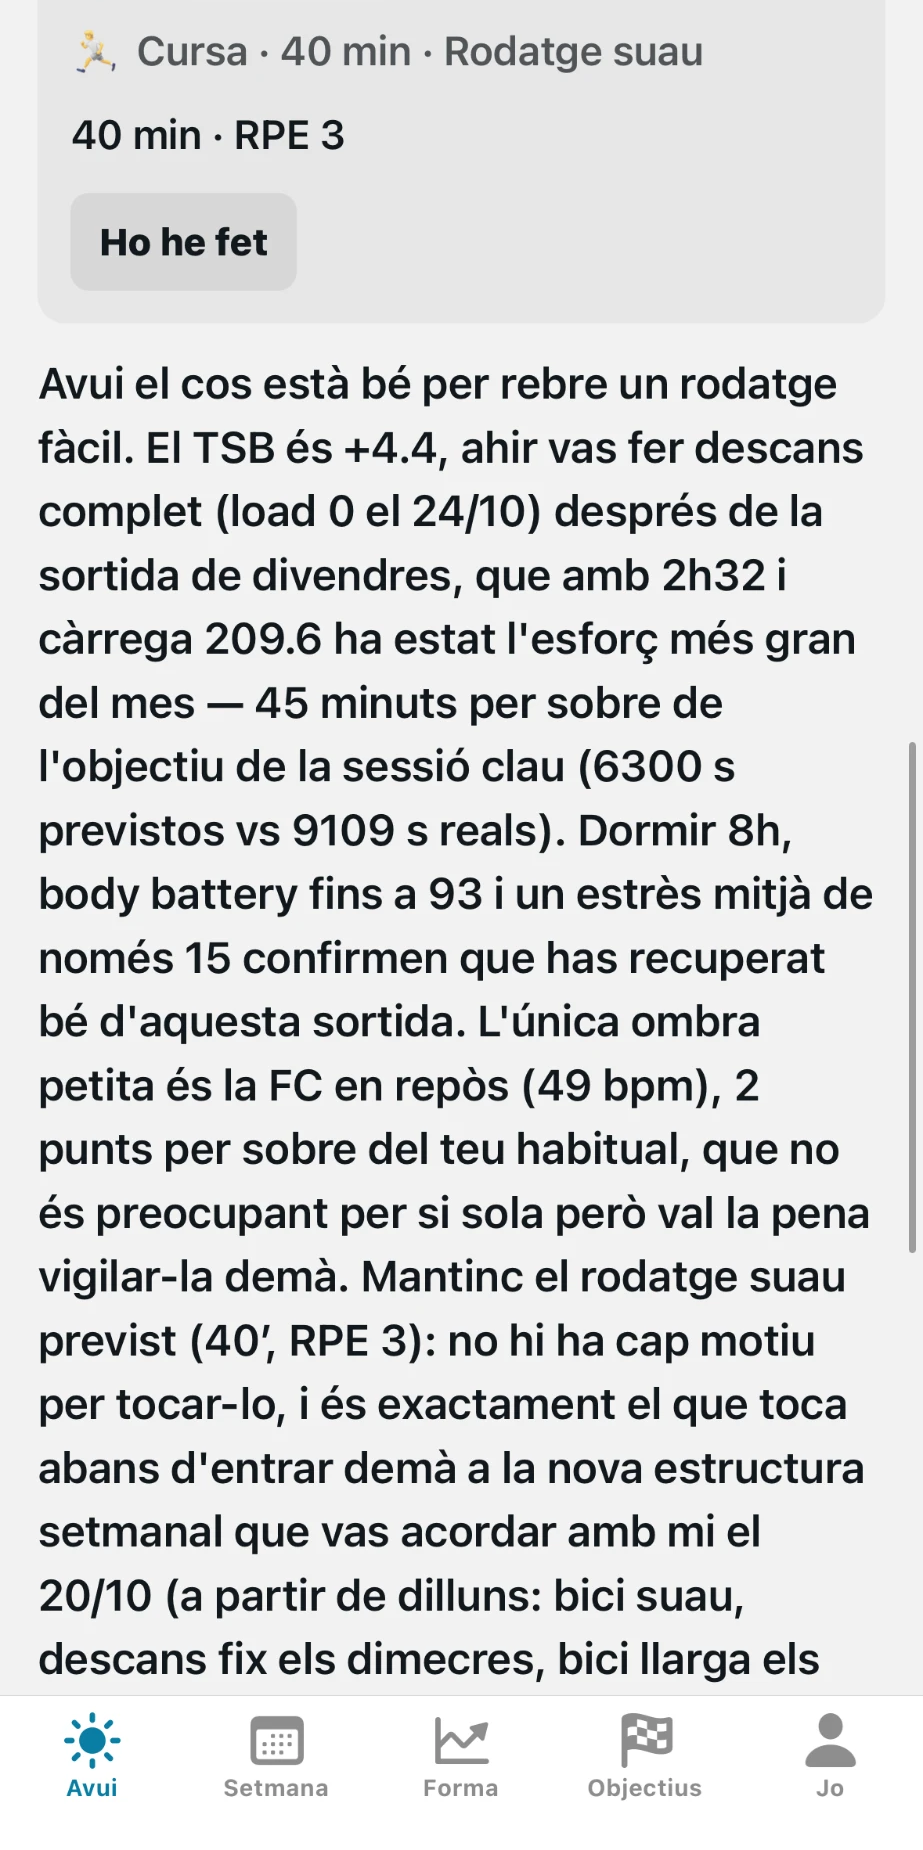
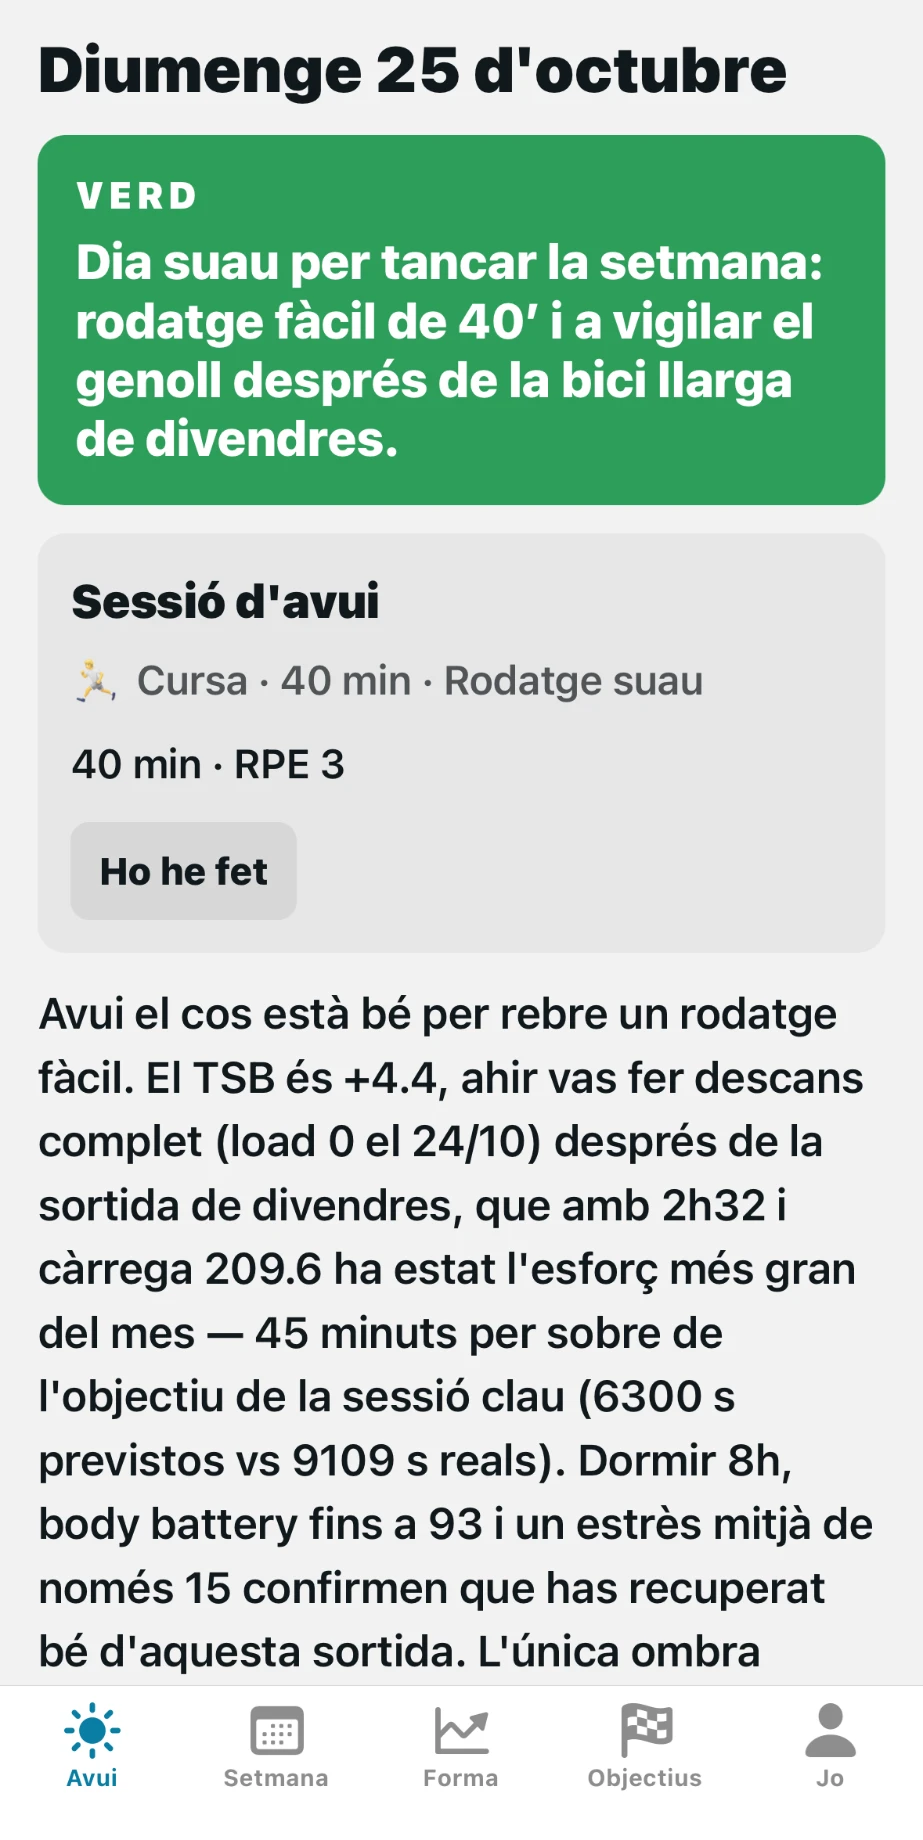
docs(readme): show the traffic light in the Today screenshot

diff --git a/README.md b/README.md
@@ -14,7 +14,7 @@ It got me to the finish line of my first triathlon (Artiem Half Menorca Short,
 27/09/2026). It now plans my season on a rolling basis.
 
 <p align="center">
-  <img src="docs/screenshots/today.png" width="22%" alt="Today: the day's session and the coach's daily report">
+  <img src="docs/screenshots/today.png" width="22%" alt="Today: daily report and traffic light">
   <img src="docs/screenshots/week.png" width="22%" alt="Week: the plan with done, missed and pending sessions">
   <img src="docs/screenshots/proposal.png" width="22%" alt="A coach proposal as a session diff with Apply / Discard">
   <img src="docs/screenshots/form.png" width="22%" alt="Form: fitness, fatigue and freshness curves">
